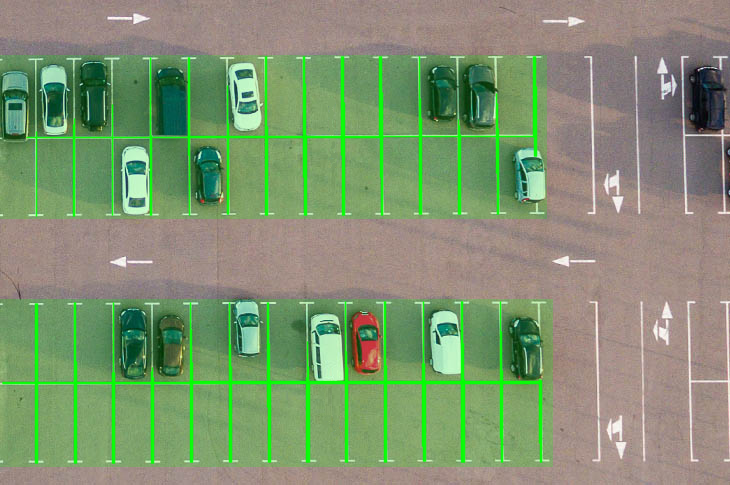
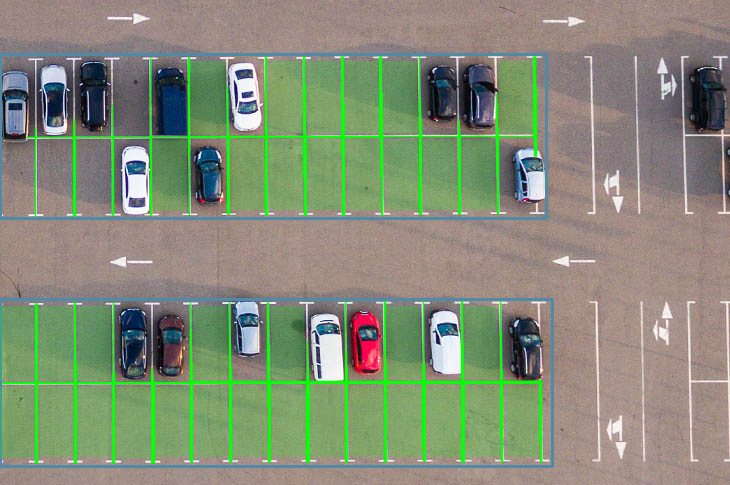
Added comments and rearranged the code

diff --git a/parking_spots_detection.py b/parking_spots_detection.py
@@ -5,7 +5,7 @@ import cv2
 import numpy as np
 
 
-# converts a BGR image to a Grayscale image
+# Converts a BGR image to a Grayscale image
 def convert_to_grayscale(image):
     return cv2.cvtColor(image, cv2.COLOR_BGR2GRAY)
 
@@ -43,7 +43,7 @@ class Point:
         self.y = y
 
 
-# point q lies on line segment 'pr'
+# Point q lies on line segment 'pr'
 def on_segment(p, q, r):
     if ((q.x <= max(p.x, r.x)) and (q.x >= min(p.x, r.x)) and
             (q.y <= max(p.y, r.y)) and (q.y >= min(p.y, r.y))):
@@ -106,12 +106,13 @@ def do_intersect(p1, q1, p2, q2):
 root = tk.Tk()
 root.withdraw()
 
-# open file dialog and display the selected image
+# Open a file dialog and display the selected image
 file_path = filedialog.askopenfilename(title="Choose an image", filetypes=[('image files', ('.png', '.jpg'))])
 input_image = cv2.imread(file_path)
 input_aux = input_image.copy()
-# show image
-#cv2.imshow('Input', input_image)
+
+# Show image
+cv2.imshow('Input', input_image)
 
 # Applying Gaussian blur to the input_image
 blurred = cv2.GaussianBlur(input_image, (3, 3), 0)
@@ -145,6 +146,7 @@ for line in vertical_lines:
 # Start parking contour detection
 multiple_lines = cv2.HoughLinesP(image=filtered_white, rho=1, theta=np.pi / 180, threshold=145, minLineLength=20,
                                  maxLineGap=35)
+
 # Accentuate the found lines on an input image copy
 for i in range(len(multiple_lines)):
     for x1, y1, x2, y2 in multiple_lines[i]:
@@ -159,19 +161,16 @@ thresh = cv2.threshold(sharpen, 10, 255, cv2.THRESH_BINARY_INV)[1]
 kernel = cv2.getStructuringElement(cv2.MORPH_RECT, (3, 3))
 close = cv2.morphologyEx(thresh, cv2.MORPH_CLOSE, kernel, iterations=5)
 
+# Applying successive erosion and dilation
 erode = cv2.erode(close, kernel, iterations=2)
 dilate = cv2.dilate(erode, kernel, iterations=2)
 
 dilate = ~dilate
 num_labels, labels_im = cv2.connectedComponents(dilate)
-#cv2.imshow('out algorithms', dilate)
 
 # Apply the contour finding algorithm
 contours = cv2.findContours(close, cv2.RETR_EXTERNAL, cv2.CHAIN_APPROX_SIMPLE)
 contours = contours[0] if len(contours) == 2 else contours[1]
-
-# Make a copy to overlay the resulted rectangles
-overlay = input_image.copy()
 
 # Filter the found contours to keep only the largest ones
 # Apply them to the output image
@@ -182,32 +181,33 @@ for c in contours:
     area = cv2.contourArea(c)
     if min_area < area < max_area:
         x2, y2, w2, h2 = cv2.boundingRect(c)
-        cv2.rectangle(overlay, (x2, y2), (x2 + w2, y2 + h2), (0, 255, 0), 1)
+        cv2.rectangle(input_image, (x2, y2), (x2 + w2, y2 + h2), (166, 138, 81), 2)
         image_number += 1
 
-
+# Find and label the objects in the binary image
 connectivity = 4
-output = cv2.connectedComponentsWithStats(dilate, connectivity, cv2.CV_32S)
+labeled = cv2.connectedComponentsWithStats(dilate, connectivity, cv2.CV_32S)
 
-num_labels = output[0]
-labels = output[1]
-stats = output[2]
+num_labels = labeled[0]
+labels = labeled[1]
+stats = labeled[2]
 
-free = overlay.copy()
+# Make a copy to overlay the free parking spots
+overlay = input_image.copy()
 
+# Draw only the objects with an area between some image specific values
+# Change this interval to apply the algorithm on different images
 for label in range(1, num_labels):
     blob_area = stats[label, cv2.CC_STAT_AREA]
     blob_width = stats[label, cv2.CC_STAT_WIDTH]
     blob_height = stats[label, cv2.CC_STAT_HEIGHT]
     if 2000 <= blob_area <= 3000:
         mask = np.array(labels, dtype=np.uint8)
-        free[labels == label] = (0, 255, 0)
-        #cv2.imshow('component', mask)
+        overlay[labels == label] = (0, 255, 0)
 
-
-# apply the overlay to the final image
+# Apply the overlay to the final image
 alpha = 0.2
-cv2.addWeighted(src1=free, alpha=alpha, src2=input_image, beta=1 - alpha, gamma=0, dst=input_image)
+cv2.addWeighted(src1=overlay, alpha=alpha, src2=input_image, beta=1 - alpha, gamma=0, dst=input_image)
 
 # Displaying the final output image
 cv2.imshow('Output', input_image)
